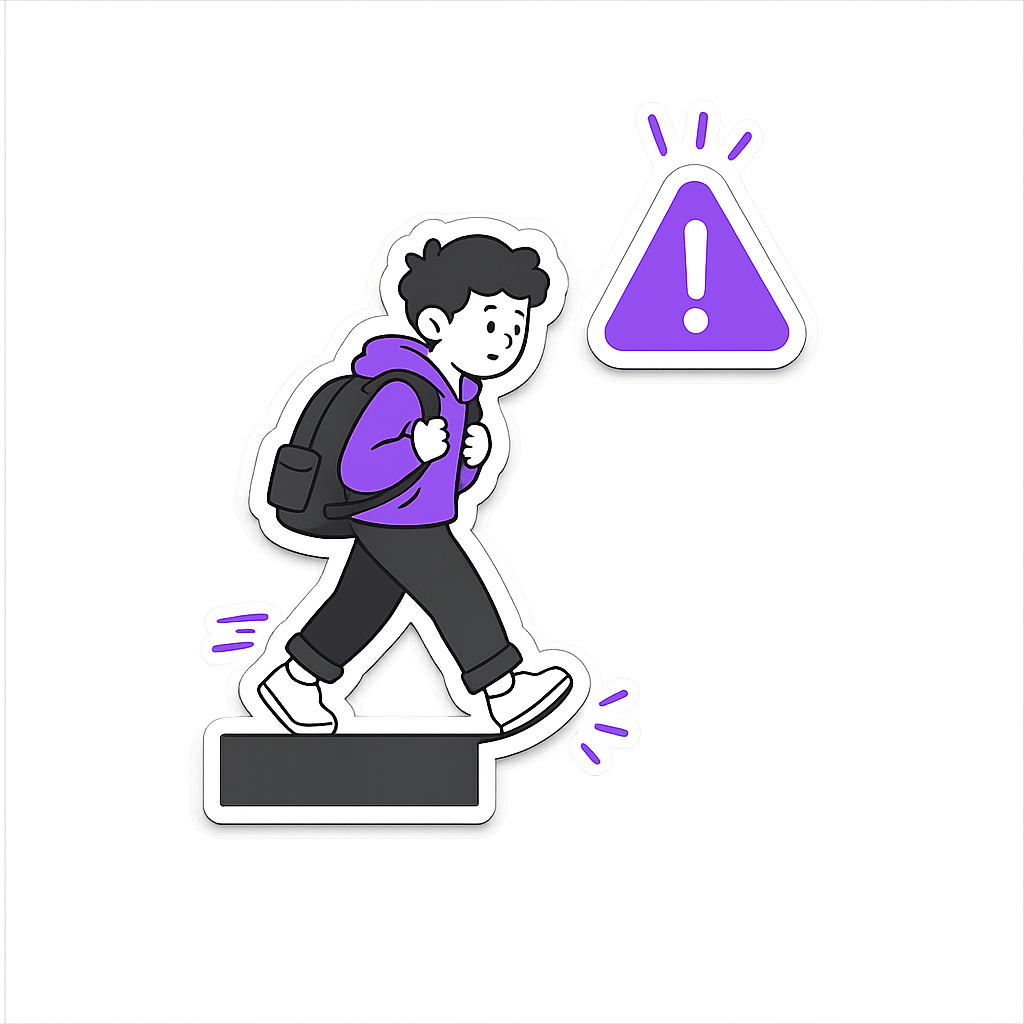
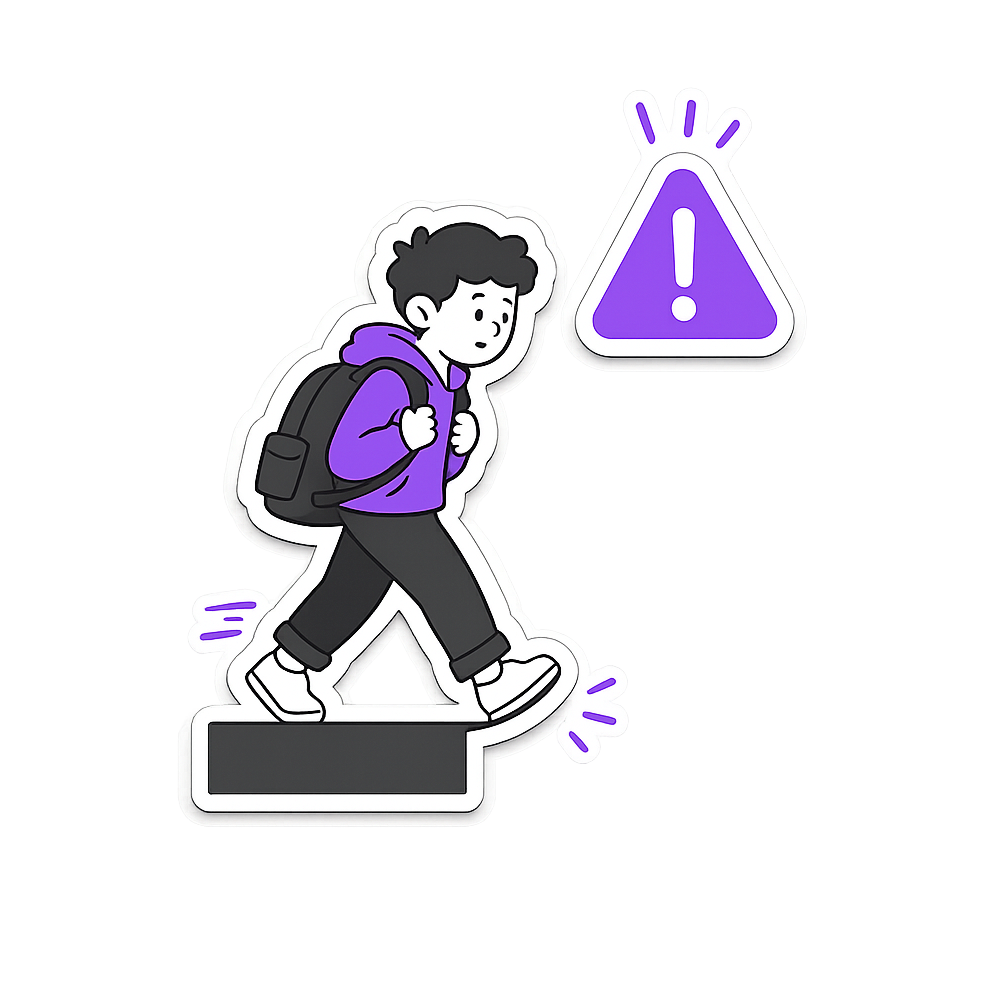
Improve problem cards responsive layout

diff --git a/index.html b/index.html
@@ -835,13 +835,13 @@
     }
 
     .problem-solution-card {
-      aspect-ratio: 1 / 1;
+      aspect-ratio: auto;
       min-height: 0;
       padding: clamp(1.25rem, 2.6vw, 1.7rem);
       display: grid;
-      grid-template-rows: auto minmax(8.5rem, 0.9fr) auto minmax(4.2rem, auto);
-      gap: clamp(0.45rem, 1vw, 0.7rem);
-      border-radius: clamp(1.15rem, 2vw, 1.7rem);
+      grid-template-rows: auto auto auto auto;
+      gap: clamp(0.6rem, 2.4vw, 0.95rem);
+      border-radius: clamp(1.25rem, 6vw, 1.9rem);
       background:
         linear-gradient(145deg, rgba(255, 255, 255, 0.055), rgba(255, 255, 255, 0.025)),
         #1A1A1B;
@@ -855,34 +855,34 @@
     }
 
     .problem-card-visual {
-      min-height: 0;
+      min-height: clamp(11rem, 48vw, 18rem);
       align-self: start;
       display: grid;
       place-items: start center;
-      transform: translateY(-0.25rem);
+      transform: translateY(-0.2rem);
     }
 
     .problem-card-visual img {
       width: auto;
-      max-width: 72%;
-      max-height: 10.6rem;
+      max-width: min(88%, 18rem);
+      max-height: clamp(12rem, 52vw, 18rem);
       height: auto;
       display: block;
       object-fit: contain;
     }
 
     .problem-solution-card h3 {
-      max-width: 16rem;
+      max-width: 100%;
       color: var(--color-surface);
-      font-size: clamp(1.2rem, 2.7vw, 1.55rem);
+      font-size: clamp(1.35rem, 6vw, 2rem);
       line-height: 0.94;
     }
 
     .problem-solution-card p {
-      max-width: 19rem;
+      max-width: 100%;
       color: rgba(255, 255, 255, 0.58);
-      font-size: clamp(0.76rem, 1.45vw, 0.9rem);
-      line-height: 1.35;
+      font-size: clamp(0.78rem, 3.2vw, 0.9rem);
+      line-height: 1.32;
     }
 
     .countdown {
@@ -1343,6 +1343,32 @@
         grid-template-columns: repeat(3, minmax(0, 1fr));
       }
 
+      .problem-solution-card {
+        aspect-ratio: 1 / 1;
+        padding: clamp(1.25rem, 2vw, 1.7rem);
+        grid-template-rows: auto minmax(7.8rem, 0.9fr) auto minmax(3.05rem, auto);
+        gap: clamp(0.38rem, 0.9vw, 0.58rem);
+      }
+
+      .problem-card-visual {
+        min-height: 0;
+        transform: translateY(-0.35rem);
+      }
+
+      .problem-card-visual img {
+        max-width: 74%;
+        max-height: clamp(7.4rem, 11vw, 9rem);
+      }
+
+      .problem-solution-card h3 {
+        font-size: clamp(1.1rem, 2vw, 1.42rem);
+      }
+
+      .problem-solution-card p {
+        font-size: clamp(0.66rem, 0.88vw, 0.74rem);
+        line-height: 1.22;
+      }
+
       .button {
         width: auto;
       }
@@ -1568,7 +1594,7 @@
               <article class="problem-solution-card">
                 <span class="problem-card-number">02</span>
                 <div class="problem-card-visual" aria-hidden="true">
-                  <img src="problem-student-risk.png" alt="" width="1024" height="1024" loading="lazy">
+                  <img src="problem-student-risk.png" alt="" width="1000" height="1000" loading="lazy">
                 </div>
                 <h3>КОНТРОЛЛИРУЙТЕ УХОД</h3>
                 <p>Ученики редко уходят внезапно: сначала появляются пропуски, отмены и падение NPS. Платформа помогает заметить эти сигналы раньше и вовремя вмешаться.</p>
